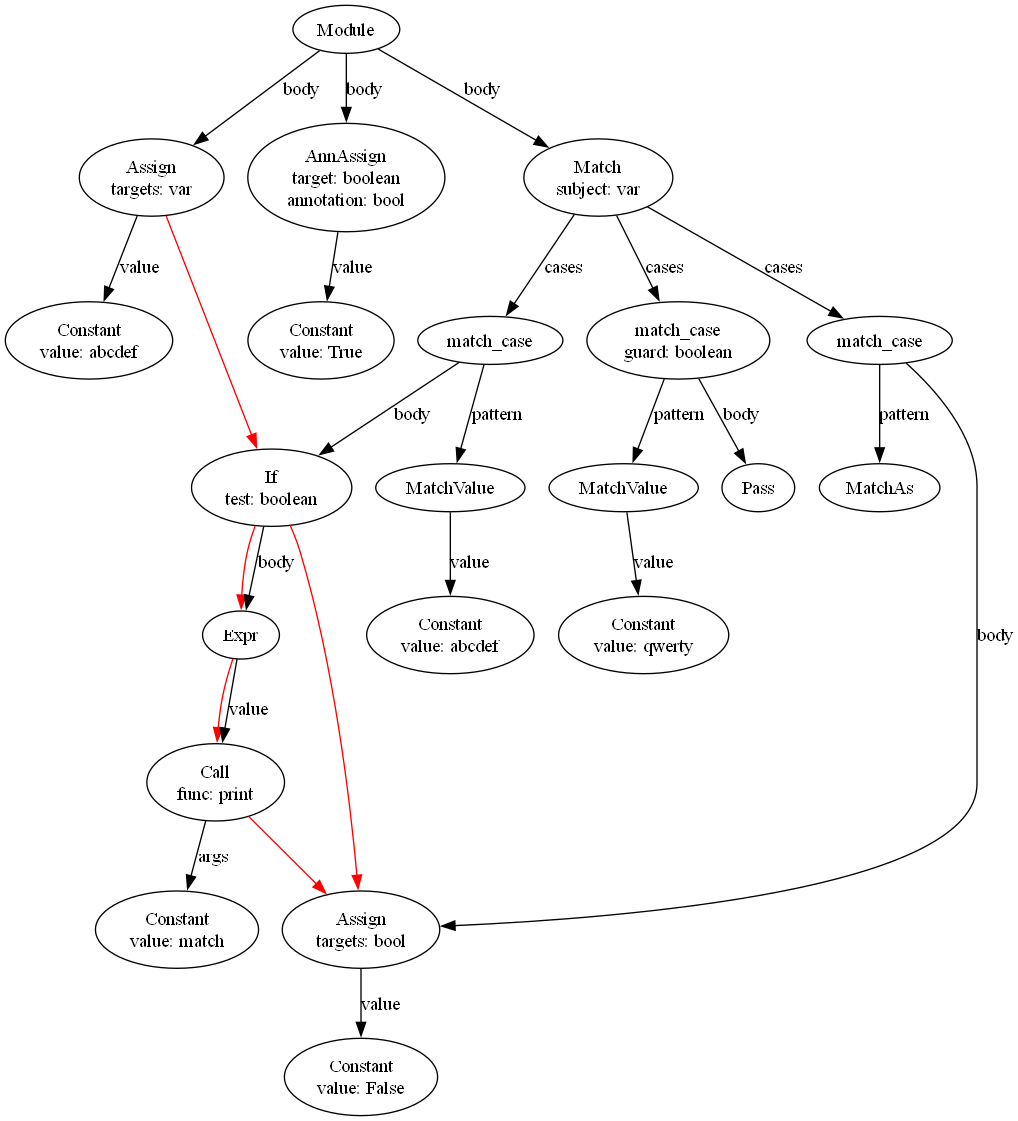
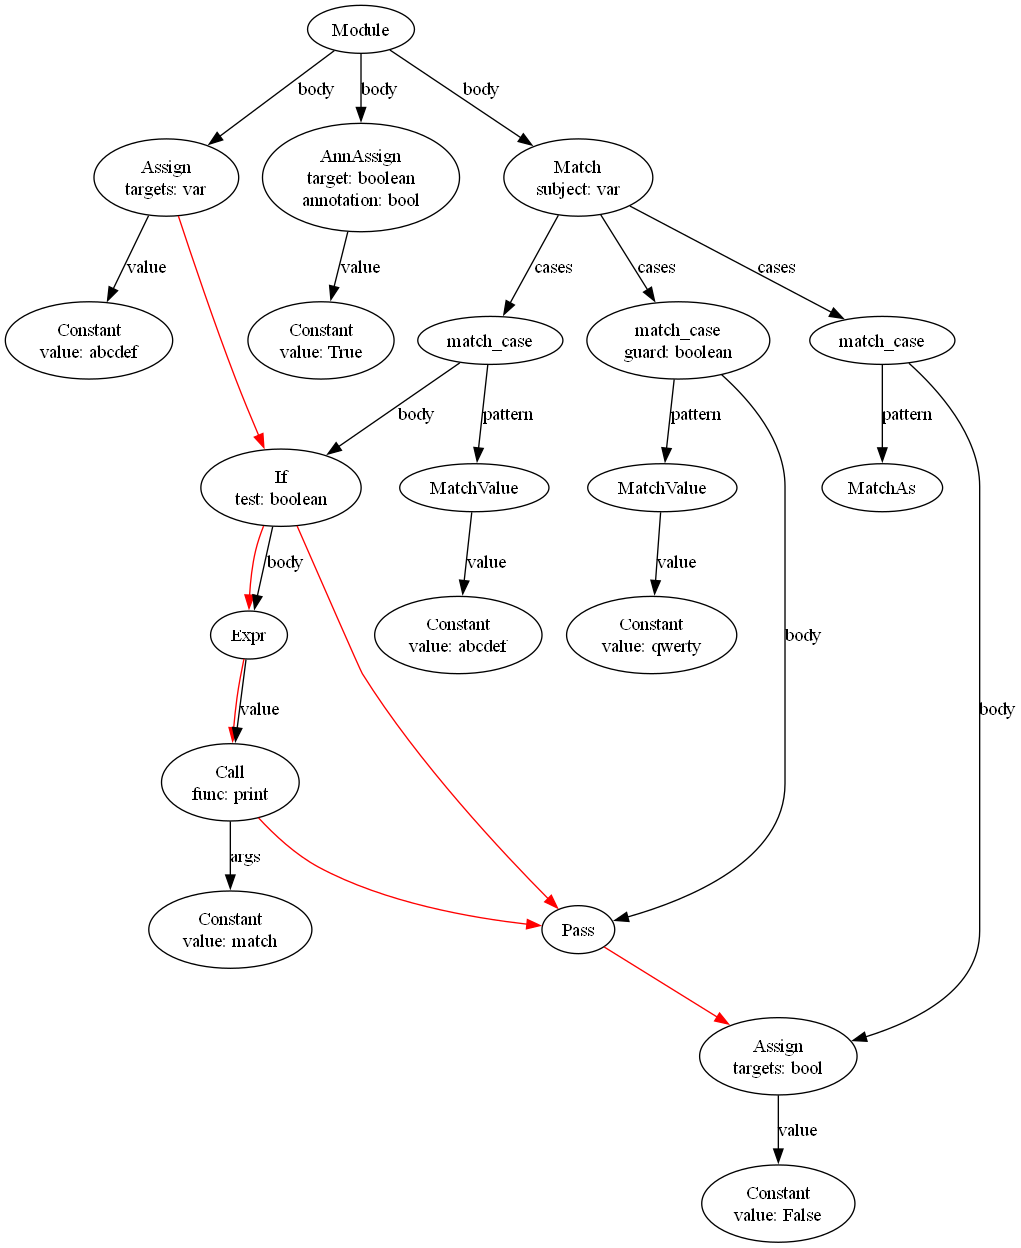
try parsing works

diff --git a/lab1/visual.py b/lab1/visual.py
@@ -15,21 +15,31 @@ files = {
     "while"
 }
 
-# files = {"if"}
+# files = {"try"}
 
 def add_node(dot, node: ast.AST, parent=None, edge_name="", parent_attrs_func=None):
     global stack_of_scopes
-    # global id
     current_scope = stack_of_scopes[-1]
     node_name = str(node.__class__.__name__)
     parent_name = str(parent.__class__.__name__)
     node_attrs = []
     elsebranch = None
+    finalbranch = None
+
+    try:
+        elsebranch = getattr(node, "orelse")
+    except AttributeError:
+        pass
+    try:
+        finalbranch = getattr(node, "finalbody")
+    except AttributeError:
+        pass
 
     def get_node_attrs():
         nonlocal node_attrs
         return node_attrs
 
+    print("IN " + node_name + " " + ast.unparse(node))
     match node_name:
         # Add node's info to their parent node
         case "Name":
@@ -45,25 +55,34 @@ def add_node(dot, node: ast.AST, parent=None, edge_name="", parent_attrs_func=No
             node_attrs.append("arg: " + str(node.arg))
         case "Constant":
             node_attrs.append("value: " + str(node.value))
-        # Add function context to make it independent from main execution
-        # and other functions
+        # Add function context to make it independent from main execution and other functions
         case "FunctionDef":
-            stack_of_scopes.append([])
+            stack_of_scopes.append([node])
             node_attrs.append("name: " + str(node.name))
             node_attrs.append("returns: " + str(node.returns))
-        case "Assign" | "Call" | "Expr" | "Break" | "Continue" | "Raise" | "Return" | "Yield" | "If" | "Try" | "ExceptHandler" | "For" | "While" | \
+        case "Assign" | "Call" | "Expr" | "Break" | "Pass" | "Continue" | "Raise" | "Return" | "Yield" | "If" | "Try" | "ExceptHandler" | "For" | "While" | \
              "BinOp" | "UnaryOp" | "BoolOp" | "IfExp":
-            if node_name == "If" and parent_name != "If" and len(current_scope) >= 1:
+            if ((node_name == "If" and parent_name != "If") or node_name == "Try") and len(current_scope) >= 1:
                 for elem in current_scope:
                     dot.edge(str(id(elem)), str(id(node)), color="red")
                 current_scope.clear()
-            if node_name == "If" or edge_name == "orelse":
+            if node_name == "If" or node_name == "ExceptHandler" or edge_name == "orelse":
                 stack_of_scopes.append(copy.copy(current_scope))
                 current_scope = stack_of_scopes[-1]
-            if parent_name == "If" and edge_name == "orelse":
-                # Remove connection with expression from previous if node
+            elif node_name == "Try":
+                # Create second scope for handlers
+                stack_of_scopes.append(copy.copy(current_scope))
+                stack_of_scopes.append(copy.copy(current_scope))
+                current_scope = stack_of_scopes[-1]
+            # elif node_name == "ExceptHandler":
+                # current_scope = stack_of_scopes[-2]
+            if (parent_name == "If" and edge_name == "orelse"):
+                # Remove connection with expression from previous if node or handlers edge
                 current_scope.pop()
                 current_scope.append(parent)
+            # elif  parent_name == "Try" and (edge_name == "handlers" or edge_name == "orelse") and len(current_scope) > 1:
+            #     # Remove connection with previous handlers edge
+            #     current_scope.pop()
             if len(current_scope) >= 1:
                 # !!! сюда же try, except
                 for elem in current_scope:
@@ -78,8 +97,6 @@ def add_node(dot, node: ast.AST, parent=None, edge_name="", parent_attrs_func=No
     
     if parent:
         dot.edge(str(id(parent)), str(id(node)), label=edge_name)
-        # if (parent_name == "If" or parent_name == "While") and edge_name == "orelse":
-        #     dot.edge(str(id(parent)), str(id(node)), color="red")
     # Then moving to children
     for name, item in ast.iter_fields(node):
         if isinstance(item, ast.AST):
@@ -91,22 +108,28 @@ def add_node(dot, node: ast.AST, parent=None, edge_name="", parent_attrs_func=No
     # Then returning to parent, moving to siblings
     if node_name == "FunctionDef":
         stack_of_scopes.pop()
-    elif node_name == "If" or edge_name == "orelse":
+    # Works or try.orelse too
+    elif node_name == "If" or node_name == "Try" or edge_name == "orelse":
         forward_list = stack_of_scopes.pop()
-        try:
-            elsebranch = getattr(node, "orelse")
-        except AttributeError:
-            pass
         # Add connection from if node to siblings if it has no orelse attr
-        if node_name == "If" and edge_name != "orelse" and not elsebranch:
+        if (node_name == "If") and edge_name != "orelse" and not elsebranch:
                 forward_list.append(node)
         try:
             stack_of_scopes[-1].extend(forward_list)
         except IndexError:
             stack_of_scopes.append(forward_list)
+    elif node_name == "ExceptHandler":
+        forward_list = stack_of_scopes.pop()
+        # Choose scope for handlers
+        stack_of_scopes[-2].extend(forward_list)
     elif parent_name == "If" and edge_name == "test":
         current_scope.pop()
         current_scope.append(parent)
+    if parent_name == "Try" and edge_name == "orelse":
+        # handlers_scope = stack_of_scopes.pop()
+        body_scope = stack_of_scopes.pop()
+        # stack_of_scopes[-1].extend(handlers_scope)
+        stack_of_scopes[-1].extend(body_scope)
     dot.node(str(id(node)), node_name + "\n" + '\n'.join(node_attrs))
 
 def read_programm(file: str) -> str:

diff --git a/lab1/try.py b/lab1/try.py
@@ -11,3 +11,20 @@ def div(a:int):
 div(div(100))
 div(10)
 div(0)
+
+try:
+    if div(10):
+        pass
+    else:
+        print("not passed")
+except:
+    pass
+
+try:
+    pass
+except IndentationError:
+    pass
+except:
+    print("")
+
+a = 2532526
